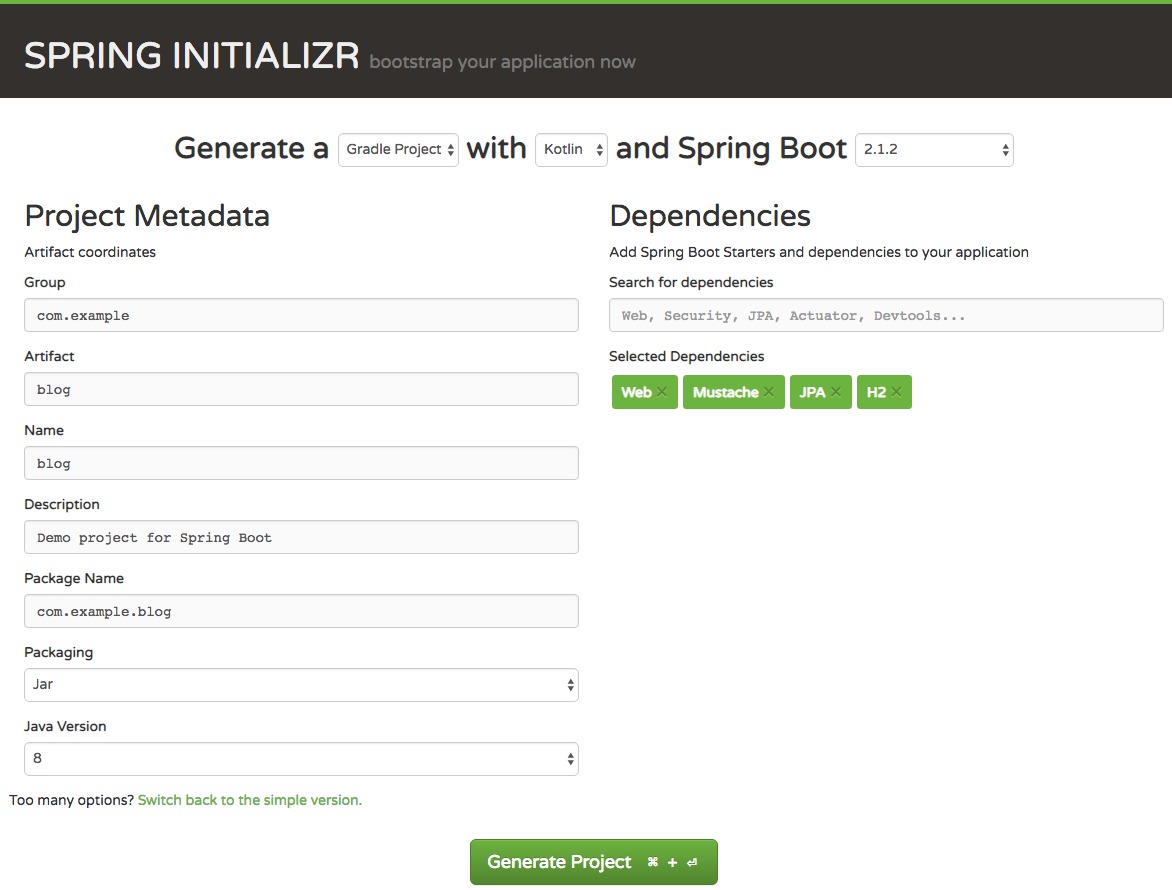
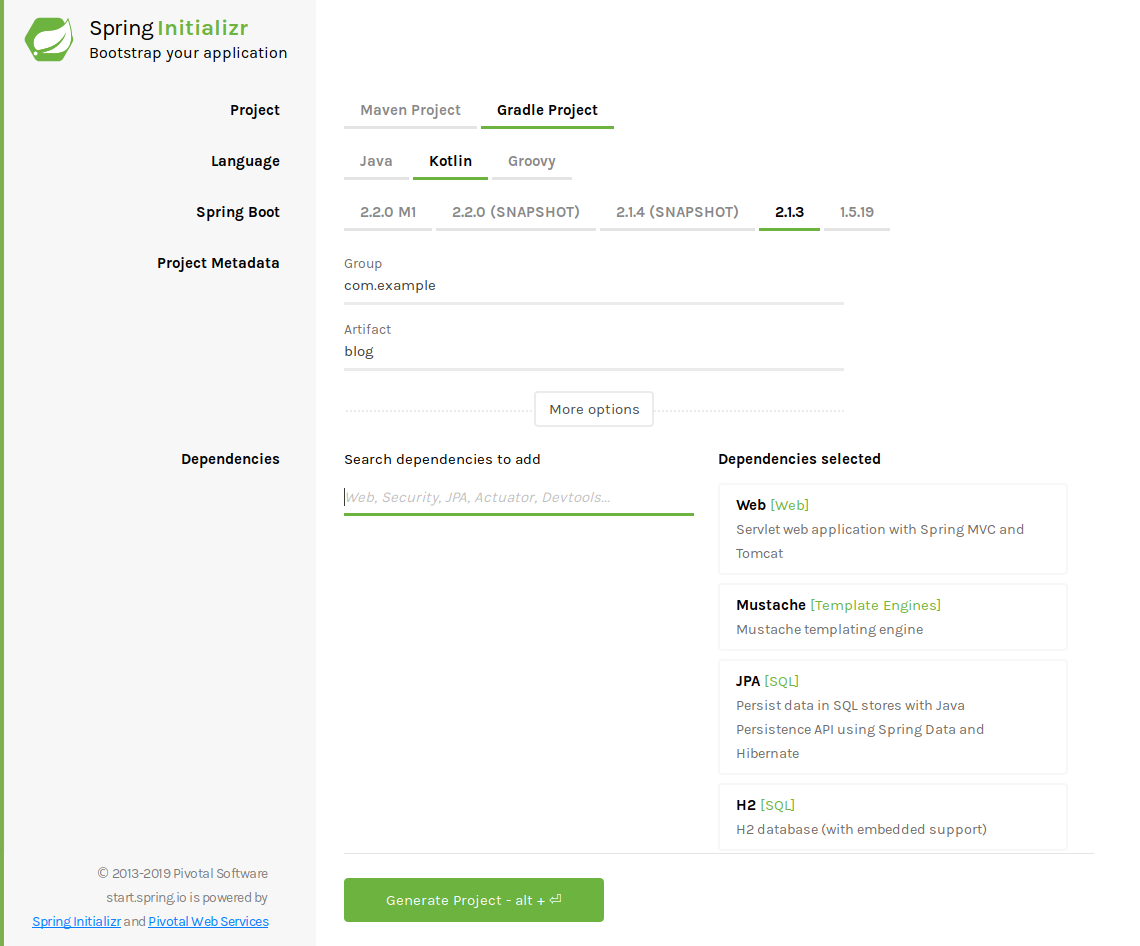
Update start.spring.io and change package

diff --git a/src/main/kotlin/com/example/blog/BlogConfiguration.kt b/src/main/kotlin/com/example/blog/BlogConfiguration.kt
@@ -1,0 +1,28 @@
+package com.example.blog
+
+import org.springframework.boot.ApplicationRunner
+import org.springframework.context.annotation.Bean
+import org.springframework.context.annotation.Configuration
+
+@Configuration
+class BlogConfiguration {
+
+    @Bean
+    fun databaseInitializer(userRepository: UserRepository,
+							articleRepository: ArticleRepository) = ApplicationRunner {
+
+        val smaldini = userRepository.save(User("smaldini", "Stéphane", "Maldini"))
+        articleRepository.save(Article(
+				title = "Reactor Bismuth is out",
+				headline = "Lorem ipsum",
+				content = "dolor sit amet",
+				author = smaldini
+		))
+        articleRepository.save(Article(
+				title = "Reactor Aluminium has landed",
+				headline = "Lorem ipsum",
+				content = "dolor sit amet",
+				author = smaldini
+		))
+    }
+}

diff --git a/src/main/kotlin/com/example/blog/BlogApplication.kt b/src/main/kotlin/com/example/blog/BlogApplication.kt
@@ -1,4 +1,4 @@
-package blog
+package com.example.blog
 
 import org.springframework.boot.autoconfigure.SpringBootApplication
 import org.springframework.boot.context.properties.EnableConfigurationProperties

diff --git a/src/test/kotlin/com/example/blog/BlogApplicationTests.kt b/src/test/kotlin/com/example/blog/BlogApplicationTests.kt
@@ -1,4 +1,4 @@
-package blog
+package com.example.blog
 
 import org.junit.jupiter.api.Test
 import org.springframework.boot.test.context.SpringBootTest

diff --git a/src/main/kotlin/com/example/blog/HtmlController.kt b/src/main/kotlin/com/example/blog/HtmlController.kt
@@ -1,4 +1,4 @@
-package blog
+package com.example.blog
 
 import org.springframework.stereotype.Controller
 import org.springframework.ui.Model

diff --git a/src/test/kotlin/com/example/blog/RepositoriesTests.kt b/src/test/kotlin/com/example/blog/RepositoriesTests.kt
@@ -1,4 +1,4 @@
-package blog
+package com.example.blog
 
 import org.assertj.core.api.Assertions.assertThat
 import org.junit.jupiter.api.Test

diff --git a/src/main/kotlin/com/example/blog/Extensions.kt b/src/main/kotlin/com/example/blog/Extensions.kt
@@ -1,4 +1,4 @@
-package blog
+package com.example.blog
 
 import java.time.LocalDateTime
 import java.time.format.DateTimeFormatterBuilder

diff --git a/src/test/kotlin/com/example/blog/IntegrationTests.kt b/src/test/kotlin/com/example/blog/IntegrationTests.kt
@@ -1,4 +1,4 @@
-package blog
+package com.example.blog
 
 import org.assertj.core.api.Assertions.*
 import org.junit.jupiter.api.AfterAll

diff --git a/src/main/kotlin/com/example/blog/BlogProperties.kt b/src/main/kotlin/com/example/blog/BlogProperties.kt
@@ -1,4 +1,4 @@
-package blog
+package com.example.blog
 
 import org.springframework.boot.context.properties.ConfigurationProperties
 

diff --git a/src/test/kotlin/com/example/blog/HttpControllersTests.kt b/src/test/kotlin/com/example/blog/HttpControllersTests.kt
@@ -1,4 +1,4 @@
-package blog
+package com.example.blog
 
 import com.ninjasquad.springmockk.MockkBean
 import io.mockk.every

diff --git a/src/main/kotlin/com/example/blog/Repositories.kt b/src/main/kotlin/com/example/blog/Repositories.kt
@@ -1,4 +1,4 @@
-package blog
+package com.example.blog
 
 import org.springframework.data.repository.CrudRepository
 

diff --git a/src/main/kotlin/com/example/blog/Entities.kt b/src/main/kotlin/com/example/blog/Entities.kt
@@ -1,4 +1,4 @@
-package blog
+package com.example.blog
 
 import java.time.LocalDateTime
 import javax.persistence.*

diff --git a/src/main/kotlin/com/example/blog/HttpControllers.kt b/src/main/kotlin/com/example/blog/HttpControllers.kt
@@ -1,4 +1,4 @@
-package blog
+package com.example.blog
 
 import org.springframework.web.bind.annotation.*
 
